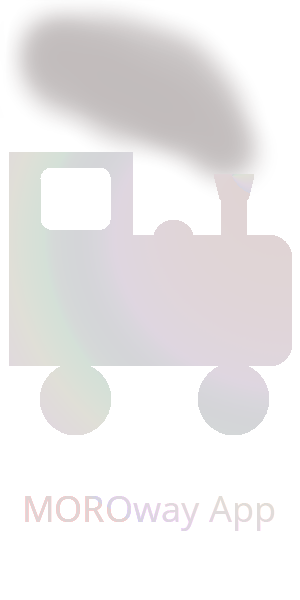
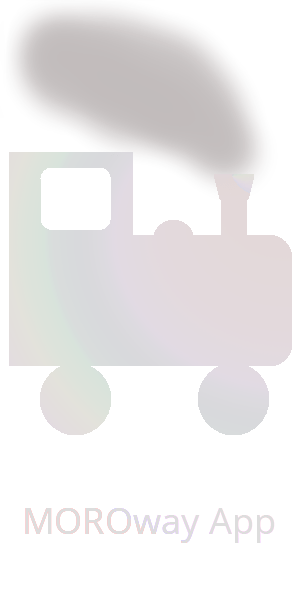
Auto update MOROway App to new version v7.4.6

Changed region(s): [[0.06, 0.81, 0.66, 0.93], [0.69, 0.81, 0.93, 0.9]]

diff --git a/sw.js b/sw.js
@@ -1,5 +1,5 @@
 //cache-name
-var CACHE_NAME = "moroway-app-sw-web-7.4.5";
+var CACHE_NAME = "moroway-app-sw-web-7.4.6";
 
 //list of all files related to moroway app
 var urlsToCache = ['.','ABOUT','LICENSE.txt','LICENSE_ASSETS.txt','assets/asset0.png','assets/asset1.png','assets/asset10.png','assets/asset11.png','assets/asset12.png','assets/asset13.png','assets/asset14.png','assets/asset15.png','assets/asset16.png','assets/asset17.png','assets/asset18.png','assets/asset19.png','assets/asset2.png','assets/asset20.png','assets/asset21.png','assets/asset22.png','assets/asset23.png','assets/asset24.png','assets/asset25.png','assets/asset26.png','assets/asset27.png','assets/asset28.png','assets/asset29.png','assets/asset3.png','assets/asset30.png','assets/asset31.png','assets/asset4.png','assets/asset5.png','assets/asset6.png','assets/asset7.png','assets/asset8.png','assets/asset9.jpg','assets/asset_background_train.png','assets/helpasset1_bug_report.png','assets/helpasset2_desc.jpg','assets/helpasset3_source.png','error/','favicon.ico','help/','manifest.webmanifest','settings/','src/css/general.css','src/css/help.css','src/css/settings.css','src/css/styling.css','src/js/appdata.js','src/js/error.js','src/js/error_handler.js','src/js/general.js','src/js/help.js','src/js/scripting.js','src/js/scripting_worker_animate.js','src/js/settings.js','src/js/whatsnew.js','src/js_platform/general.js','src/js_platform/help.js','src/js_platform/scripting.js','src/lib/README.md','src/lib/open_fonts/google/MaterialIcons/LICENSE.txt','src/lib/open_fonts/google/MaterialIcons/MaterialIcons-Regular.ttf','src/lib/open_fonts/google/MaterialIcons/font.css','src/lib/open_fonts/google/Roboto/COPYRIGHT.txt','src/lib/open_fonts/google/Roboto/LICENSE.txt','src/lib/open_fonts/google/Roboto/Roboto-Medium.ttf','src/lib/open_fonts/google/Roboto/Roboto-Regular.ttf','src/lib/open_fonts/google/Roboto/font.css','whatsnew/'];

diff --git a/src/js/scripting.js b/src/js/scripting.js
@@ -506,19 +506,19 @@ function drawBackground() {
         /////DRAW/BACKGROUND/Layer-1/////
         var imgData = contextBackground.getImageData(0, 0, canvas.width, canvas.height);
         var data = imgData.data;
-        for (var i = 0; i < data.length; i += 8) {
-            data[i] = data[i+4] = Math.min(255,data[i] < 120 ? data[i]/1.3 : data[i]*1.1);
-            data[i+1] = data[i+5] = Math.min(255,data[i+1] < 120 ? data[i+1]/1.3 : data[i+1]*1.1);
-            data[i+2] = data[i+6] = Math.min(255,data[i+2] < 120 ? data[i+2]/1.3 : data[i+2]*1.1);
+        for (var i = 0; i < data.length; i += 4) {
+            data[i] = Math.min(255,data[i] < 120 ? data[i]/1.2 : data[i]*1.1);
+            data[i+1] = Math.min(255,data[i+1] < 120 ? data[i+1]/1.2 : data[i+1]*1.1);
+            data[i+2] = Math.min(255,data[i+2] < 120 ? data[i+2]/1.2 : data[i+2]*1.1);
         }
         contextBackground.putImageData(imgData, 0, 0);
         /////DRAW/BACKGROUND/Layer-2/////
         imgData = contextSemiForeground.getImageData(0, 0, canvas.width, canvas.height);
         data = imgData.data;
-        for (i = 0; i < data.length; i += 8) {
-            data[i] = data[i+4] = Math.min(255,data[i] < 120 ? data[i]/1.3 : data[i]*1.1);
-            data[i+1] = data[i+5] = Math.min(255,data[i+1] < 120 ? data[i+1]/1.3 : data[i+1]*1.1);
-            data[i+2] = data[i+6] = Math.min(255,data[i+2] < 120 ? data[i+2]/1.3 : data[i+2]*1.1);
+        for (i = 0; i < data.length; i += 4) {
+            data[i] = Math.min(255,data[i] < 120 ? data[i]/1.2 : data[i]*1.1);
+            data[i+1] = Math.min(255,data[i+1] < 120 ? data[i+1]/1.2 : data[i+1]*1.1);
+            data[i+2] = Math.min(255,data[i+2] < 120 ? data[i+2]/1.2 : data[i+2]*1.1);
         }
         contextSemiForeground.putImageData(imgData, 0, 0);
     }

diff --git a/src/css/styling.css b/src/css/styling.css
@@ -30,34 +30,40 @@ canvas {
     left: 0;
     top: 0;
     z-index: 3;
-    width: 100vw;
-    height: 100vh;
+    width: 100%;
+    height: 100%;
     background: inherit;
+    display: flex;
+    justify-content: center;
+    align-items: center;
 }
 
 #snake {
     background: none;
-    animation: snake 0.4s infinite;
 }
 
 #branding img, #snake div {
     width: 20%;
     max-width: 400px;
-    position: absolute;
-    transform: translate(-50%,-50%);
-    left: 50%;
-    top: 50%;
+}
+
+#branding img {
+    height: inherit;
+    object-fit: contain;
 }
 
 #snake div {
     width: 5vw;
     height: 5vw;
+    max-width: 10vh;
+    max-height: 10vh;
     border: 3px solid rgb(0, 0, 0);
     border-radius: 50%;
     border-right-color: rgba(0, 0, 0,0);
     border-bottom-color: rgba(0, 0, 0,0.5);
     border-left-color: rgba(0, 0, 0,0.75);
     content: ' ';
+    animation: snake 0.4s infinite;
 }
 
 #percent {

diff --git a/src/js/appdata.js b/src/js/appdata.js
@@ -3,12 +3,12 @@ const APP_DATA = {
     "version": {
         "major": 7,
         "minor": 4,
-        "patch": 5,
+        "patch": 6,
         "beta": 0,
         "date": {
             "year": 2022,
             "month": 3,
-            "day": 8
+            "day": 9
         }
     },
     "platform": "web",
